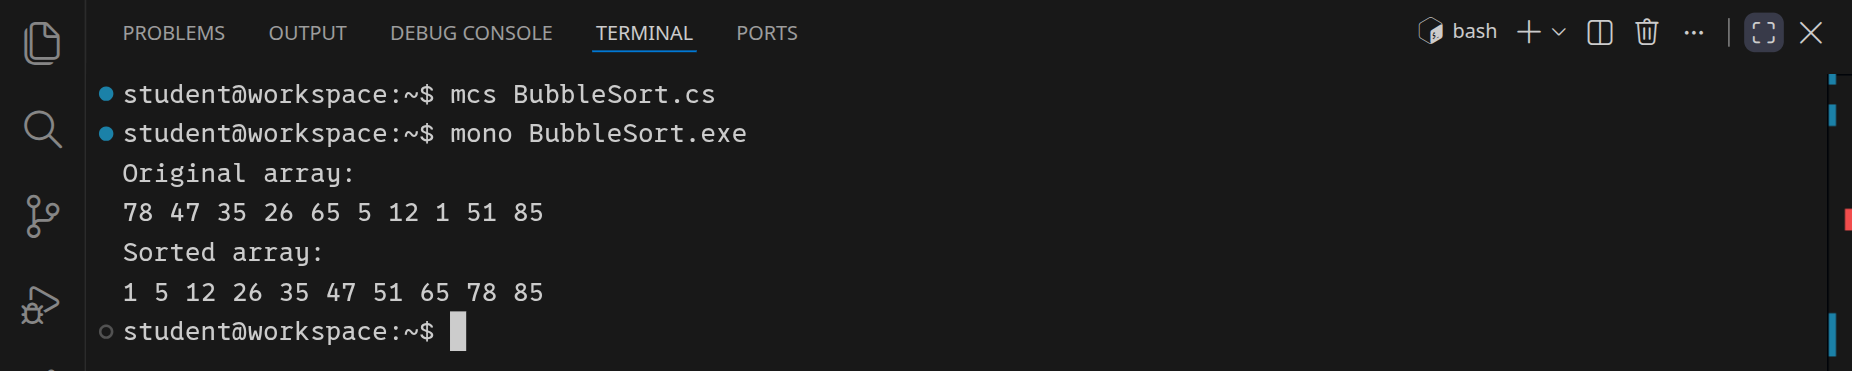
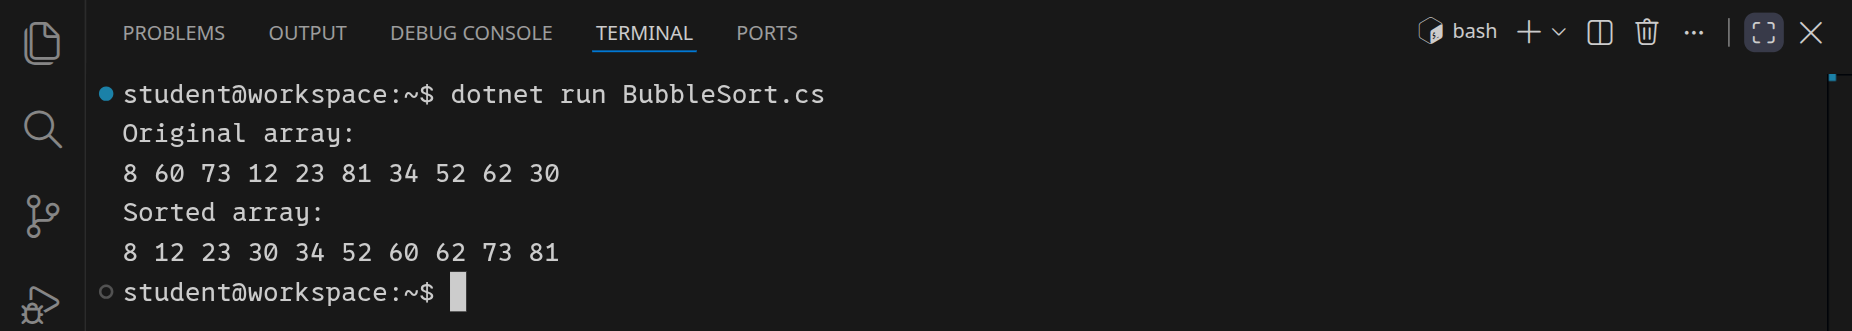
C#: dotnet run instead of Mono; no .NET telemetry in Workspaces
.NET 10 runs a single .cs file directly (dotnet run HelloWorld.cs), so
the page drops mcs/mono and the .exe step. Factor.cs no longer warns
about a possibly null ReadLine. Workspaces start with
DOTNET_CLI_TELEMETRY_OPTOUT, DOTNET_NOLOGO and no ASP.NET dev
certificate. Screenshots re-rendered.

diff --git a/src/ruby/include/workspace_runtime.rb b/src/ruby/include/workspace_runtime.rb
@@ -52,9 +52,14 @@ module WorkspaceRuntime
             result
         end
 
+        # Tools that phone home or greet on first use: .NET sends usage data
+        # unless told not to, prints a welcome banner on its first run and
+        # makes an HTTPS developer certificate nobody here needs.
+        TOOL_ENVIRONMENT = '-e DOTNET_CLI_TELEMETRY_OPTOUT=1 -e DOTNET_NOLOGO=1 -e DOTNET_GENERATE_ASPNET_CERTIFICATE=false'
+
         def start_workspace(fs_tag:, workspace_login:, database_environment:,
             host_data_path:, test_mode:, timeout: nil)
-            command = "docker run --cpus=4 --memory=4g --memory-swap=4g --pids-limit=256 -d --rm --hostname workspace -e PUID=1000 -e PGID=1000 -e TZ=Europe/Berlin -e WORKSPACE_USER=#{Shellwords.escape(workspace_login)} -e PWA_APPNAME=\"Workspace\" -e DEFAULT_WORKSPACE=/workspace -e MYSQL_HOST=\"#{database_environment['MYSQL_HOST']}\" -e MYSQL_USER=\"#{database_environment['MYSQL_USER']}\" -e MYSQL_PASSWORD=\"#{database_environment['MYSQL_PASSWORD']}\" -e MYSQL_DATABASE=\"#{database_environment['MYSQL_DATABASE']}\" -e NEO4J_URI=\"#{database_environment['NEO4J_URI']}\" -e NEO4J_USERNAME=\"#{database_environment['NEO4J_USERNAME']}\" -e NEO4J_PASSWORD=\"#{database_environment['NEO4J_PASSWORD']}\" -e NEO4J_DATABASE=\"#{database_environment['NEO4J_DATABASE']}\" -v #{host_data_path}/user/#{fs_tag}/config:/config -v #{host_data_path}/user/#{fs_tag}/workspace:/workspace --network #{WORKSPACE_NETWORK} #{test_mode ? '-v /dev/null:/etc/resolv.conf:ro' : ''} --name hs_code_#{fs_tag} #{WORKSPACE_IMAGE}"
+            command = "docker run --cpus=4 --memory=4g --memory-swap=4g --pids-limit=256 -d --rm --hostname workspace -e PUID=1000 -e PGID=1000 -e TZ=Europe/Berlin -e WORKSPACE_USER=#{Shellwords.escape(workspace_login)} -e PWA_APPNAME=\"Workspace\" -e DEFAULT_WORKSPACE=/workspace #{TOOL_ENVIRONMENT} -e MYSQL_HOST=\"#{database_environment['MYSQL_HOST']}\" -e MYSQL_USER=\"#{database_environment['MYSQL_USER']}\" -e MYSQL_PASSWORD=\"#{database_environment['MYSQL_PASSWORD']}\" -e MYSQL_DATABASE=\"#{database_environment['MYSQL_DATABASE']}\" -e NEO4J_URI=\"#{database_environment['NEO4J_URI']}\" -e NEO4J_USERNAME=\"#{database_environment['NEO4J_USERNAME']}\" -e NEO4J_PASSWORD=\"#{database_environment['NEO4J_PASSWORD']}\" -e NEO4J_DATABASE=\"#{database_environment['NEO4J_DATABASE']}\" -v #{host_data_path}/user/#{fs_tag}/config:/config -v #{host_data_path}/user/#{fs_tag}/workspace:/workspace --network #{WORKSPACE_NETWORK} #{test_mode ? '-v /dev/null:/etc/resolv.conf:ro' : ''} --name hs_code_#{fs_tag} #{WORKSPACE_IMAGE}"
             @ok.call(command, :timeout => timeout)
         end
 

diff --git a/src/ruby/test/workspace_runtime_test.rb b/src/ruby/test/workspace_runtime_test.rb
@@ -90,6 +90,7 @@ class WorkspaceRuntimeTest < Minitest::Test
         assert_includes command, '-v /srv/workspace/user/abcdefghijklmnop/workspace:/workspace'
         assert_includes command, '--network workspace_user'
         assert_includes command, '-v /dev/null:/etc/resolv.conf:ro'
+        assert_includes command, '-e DOTNET_CLI_TELEMETRY_OPTOUT=1'
         assert command.end_with?('--name hs_code_abcdefghijklmnop hs_code_server')
         assert_equal({:timeout => 60}, options)
     end

diff --git a/src/content/cs/Factor.cs b/src/content/cs/Factor.cs
@@ -5,7 +5,7 @@ class Factor
     static void Main()
     {
         Console.Write("Enter a number: ");
-        int number = int.Parse(Console.ReadLine());
+        int number = int.Parse(Console.ReadLine() ?? "");
 
         Console.Write("Prime factors: ");
         for (int i = 2; i <= number; i++)

diff --git a/src/content/cs/cs.md b/src/content/cs/cs.md
@@ -35,9 +35,9 @@ C# wird häufig für die Entwicklung von Windows-Anwendungen, Webanwendungen und
 
 ## Hello, world!
 
-Um ein C#-Programm zu starten, benötigst du eine .NET-Laufzeitumgebung. Diese ist in der Regel auf Windows-Systemen vorinstalliert. Für den Workspace werden wir die freie .NET-Implementierung Mono verwenden, die plattformübergreifend auf Windows, macOS und Linux läuft.
+C#-Programme laufen auf .NET, einer freien Plattform von Microsoft für Windows, macOS und Linux. Im Workspace ist .NET 10 installiert, mit dem Befehl `dotnet`.
 
-C#-Programme werden in Textdateien mit der Endung `.cs` geschrieben Diese Dateien werden dann mit dem C#-Compiler `mcs` kompiliert, um ausführbare Dateien zu erzeugen. Diese haben die Endung `.exe` und sie können unter Linux und macOS mit dem Mono-Laufzeitumgebung ausgeführt werden.
+C#-Programme werden in Textdateien mit der Endung `.cs` geschrieben. Der Befehl `dotnet run` übersetzt eine solche Datei mit dem C#-Compiler und führt das Ergebnis gleich aus.
 
 Stelle zuerst sicher, dass du keinen Ordner geöffnet hast. Um sicherzugehen, drücke einfach den Shortcut für »Ordner schließen«: <kbd>Strg</kbd><kbd>K</kbd> und dann <kbd>F</kbd>. Dein Workspace sollte jetzt ungefähr so aussehen:
 
@@ -106,8 +106,7 @@ crop-bottom: 40%
 
 ### Kompilieren und ausführen
 
-Bevor wir das Programm ausführen können, müssen wir es kompilieren.
-Dadurch wird der Quelltext des Programms in eine ausführbare Datei übersetzt, die von der .NET-Laufzeitumgebung ausgeführt werden kann.
+Bevor das Programm laufen kann, muss es kompiliert werden: Der Compiler übersetzt den Quelltext in eine Form, die die .NET-Laufzeitumgebung ausführen kann.
 
 Öffne dazu ein Terminal, indem du entweder <kbd>Strg</kbd><kbd>J</kbd> drückst oder das Panel-Symbol <img src='../basics/panel.webp' style='border-radius: 4px; height: 1.5em;' alt=''> rechts oben drückst. Dein Fenster sollte jetzt ungefähr so aussehen:
 
@@ -119,44 +118,31 @@ sleep: 0.5
 
 <img class='full' src='code-with-terminal.webp' alt=''>
 
-Wir rufen jetzt den C#-Compiler `mcs` auf, um das Programm zu übersetzen:
+Übersetze und starte das Programm mit:
 
 ```bash
-mcs HelloWorld.cs
+dotnet run HelloWorld.cs
 ```
 
 <div class='hint'>
-Du musst nicht den vollständigen Dateinamen schreiben. Schreib einfach <code>mcs He</code> und drücke <kbd>Tab</kbd>, um den Dateinamen automatisch zu <code>HelloWorld.csd</code> vervollständigen zu lassen.
+Du musst nicht den vollständigen Dateinamen schreiben. Schreib einfach <code>dotnet run He</code> und drücke <kbd>Tab</kbd>, um den Dateinamen automatisch zu <code>HelloWorld.cs</code> vervollständigen zu lassen.
 </div>
 
-Wenn du keinen Fehler gemacht hast, wird das Programm erfolgreich kompiliert und die Datei `HelloWorld.exe` wird im selben Verzeichnis erstellt. Du kannst dies überprüfen, indem du dir die Dateien im aktuellen Verzeichnis mit `ls` oder `ls -l` anzeigen lässt:
+Beim ersten Mal dauert es ein paar Sekunden, weil `dotnet` das Programm erst kompiliert. Dann erscheint `Hello, World!`:
 
 <!-- tutorial-screenshot
+# Einmal vorweg, damit das Bild zeigt, wie es sich danach anfühlt
+terminal-run: dotnet run HelloWorld.cs
+terminal-wait-for-prompt: 120
 press: Control+l
-terminal-run: mcs HelloWorld.cs
-terminal-wait-for-prompt
-terminal-run: ls -l
-terminal-wait-for-prompt
+terminal-run: dotnet run HelloWorld.cs
+terminal-wait-for-prompt: 60
 crop-terminal-lines: auto
 -->
 
-<img class='full' src='ls.webp' alt=''>
+<img class='full' src='hello.webp' alt='Im Terminal: dotnet run HelloWorld.cs gibt »Hello, World!« aus.'>
 
-Die Datei `HelloWorld.class` ist die ausführbare Datei. Sie kann allerdings unter Linux nicht direkt gestartet werden, sondern muss mit der Mono-Laufzeitumgebung ausgeführt werden. Um das Programm auszuführen, gib folgenden Befehl ein:
-
-```bash
-mono HelloWorld.exe
-```
-
-Das Programm sollte die Nachricht `Hello, World!` im Terminal ausgeben. Du kannst beide Schritte auch in einem Befehl kombinieren:
-
-```bash
-mcs HelloWorld.cs && mono HelloWorld.exe
-```
-
-<div class='hint'>
-Die Zeichenkombination <code>&amp;&amp;</code> sorgt dafür, dass der zweite Befehl nur ausgeführt wird, wenn der erste erfolgreich war.
-</div>
+Wo ist das übersetzte Programm? `dotnet` legt es nicht neben deine Datei, sondern in einen eigenen Ordner, und benutzt es beim nächsten Mal wieder, solange du `HelloWorld.cs` nicht änderst. Deshalb startet es beim zweiten Mal sofort. Änderst du die Datei, übersetzt `dotnet run` sie von selbst neu.
 
 ### Fehler finden und beheben
 
@@ -166,31 +152,31 @@ Wenn du einen Fehler im Code machst, wird der Compiler eine Fehlermeldung ausgeb
         Console.WriteLin("Hello, World!");
 ```
 
-Speichere die Datei und führe den Compiler erneut aus:
+Speichere die Datei und starte das Programm erneut:
 
 ```bash
-mcs HelloWorld.cs
+dotnet run HelloWorld.cs
 ```
 
 <div class='hint'>
 Nutze die Pfeiltaste hoch <kbd>↑</kbd>, um den letzten Befehl erneut einzugeben. So kannst du schnell dein Programm testen, nachdem du es verändert hast.
 </div>
 
-Der Compiler sollte eine Fehlermeldung ausgeben, die dir hilft, den Fehler zu finden:
+Statt das Programm zu starten, gibt der Compiler eine Fehlermeldung aus, die dir hilft, den Fehler zu finden:
 
 <!-- tutorial-screenshot
 # Der Fehler aus dem Text; die lange Meldung braucht das ganze Terminal
 write-file: HelloWorld.cs <- file:error-HelloWorld.cs
 terminal-maximize
 press: Control+l
-terminal-run: mcs HelloWorld.cs
-terminal-wait-for-prompt
+terminal-run: dotnet run HelloWorld.cs
+terminal-wait-for-prompt: 60
 crop-terminal-lines: auto
 -->
 
 <img class='full' src='hello-error.webp' alt=''>
 
-Es lohnt sich, die Fehlermeldungen genau zu lesen, um den Fehler zu finden und zu beheben. Achte auf die Zeilennummer (in diesem Beispiel 7) und den Text, der dir sagt, was falsch ist. Denke daran, den Fehler wieder zu beheben, bevor du das nächste Beispiel ausprobierst.
+Es lohnt sich, die Fehlermeldungen genau zu lesen, um den Fehler zu finden und zu beheben. Die Stelle steht am Anfang der Meldung: `HelloWorld.cs(7,17)` heißt Zeile 7, Zeichen 17. Danach folgt der Text, der dir sagt, was falsch ist. Denke daran, den Fehler wieder zu beheben, bevor du das nächste Beispiel ausprobierst.
 
 ## Primfaktorzerlegung
 
@@ -200,21 +186,17 @@ Erstelle eine neue Datei mit <kbd>Strg</kbd><kbd>Alt</kbd><kbd>N</kbd> und schre
 
 _include_file(Factor.cs, cs)
 
-Speichere die Datei unter dem Namen `Factor.cs`. Kompiliere das Programm:
+Speichere die Datei unter dem Namen `Factor.cs` und starte sie:
 
 ```bash
-mcs Factor.cs
+dotnet run Factor.cs
 ```
-
-Falls du keine Fehlermeldung erhältst, kannst du das Programm ausführen und testen:
 
 <!-- tutorial-screenshot
 write-file: Factor.cs <- file:Factor.cs
 terminal-maximize
 press: Control+l
-terminal-run: mcs Factor.cs
-terminal-wait-for-prompt
-terminal-run: mono Factor.exe
+terminal-run: dotnet run Factor.cs
 wait-for-text: number:
 terminal-run: 123
 terminal-wait-for-prompt
@@ -235,20 +217,17 @@ Erstelle eine neue Datei und schreibe den folgenden Code hinein:
 
 _include_file(BubbleSort.cs, cs)
 
-Speichere die Datei unter dem Namen `BubbleSort.cs`. Kompiliere das Programm:
+Speichere die Datei unter dem Namen `BubbleSort.cs` und starte sie:
 
 ```bash
-mcs BubbleSort.cs
+dotnet run BubbleSort.cs
 ```
-Falls du keine Fehlermeldung erhältst, kannst du das Programm ausführen und testen:
 
 <!-- tutorial-screenshot
 write-file: BubbleSort.cs <- file:BubbleSort.cs
 press: Control+l
-terminal-run: mcs BubbleSort.cs
-terminal-wait-for-prompt
-terminal-run: mono BubbleSort.exe
-terminal-wait-for-prompt
+terminal-run: dotnet run BubbleSort.cs
+terminal-wait-for-prompt: 60
 crop-terminal-lines: auto
 -->
 

diff --git a/CHANGELOG.md b/CHANGELOG.md
@@ -429,6 +429,10 @@ Jeder Eintrag sagt, was sich für Lernende, Lehrkräfte und Betreibende ändert.
   später immer wieder in <kbd>Strg</kbd><kbd>P</kbd> auf. Sie sind jetzt
   ausgeschlossen (`**/.hs-kbd-tutorial/**` in `files.exclude`); VS Code
   nimmt sie beim nächsten Start auch aus dem gespeicherten Verlauf.
+- C#: Die Seite übersetzt und startet Programme mit `dotnet run Datei.cs`
+  (.NET 10) statt mit Mono (`mcs`, `mono`). Workspaces starten mit
+  `DOTNET_CLI_TELEMETRY_OPTOUT=1`: .NET schickt keine Nutzungsdaten an
+  Microsoft, zeigt kein Begrüßungsbanner und legt kein HTTPS-Zertifikat an.
 - Das Profil hat keinen Abschnitt »Notizen für Lehrkräfte« mehr; die
   Notizen stehen oben auf den Aktivitäten. `/lehrmaterial` führt zum
   »Einstieg für Lehrkräfte«.
